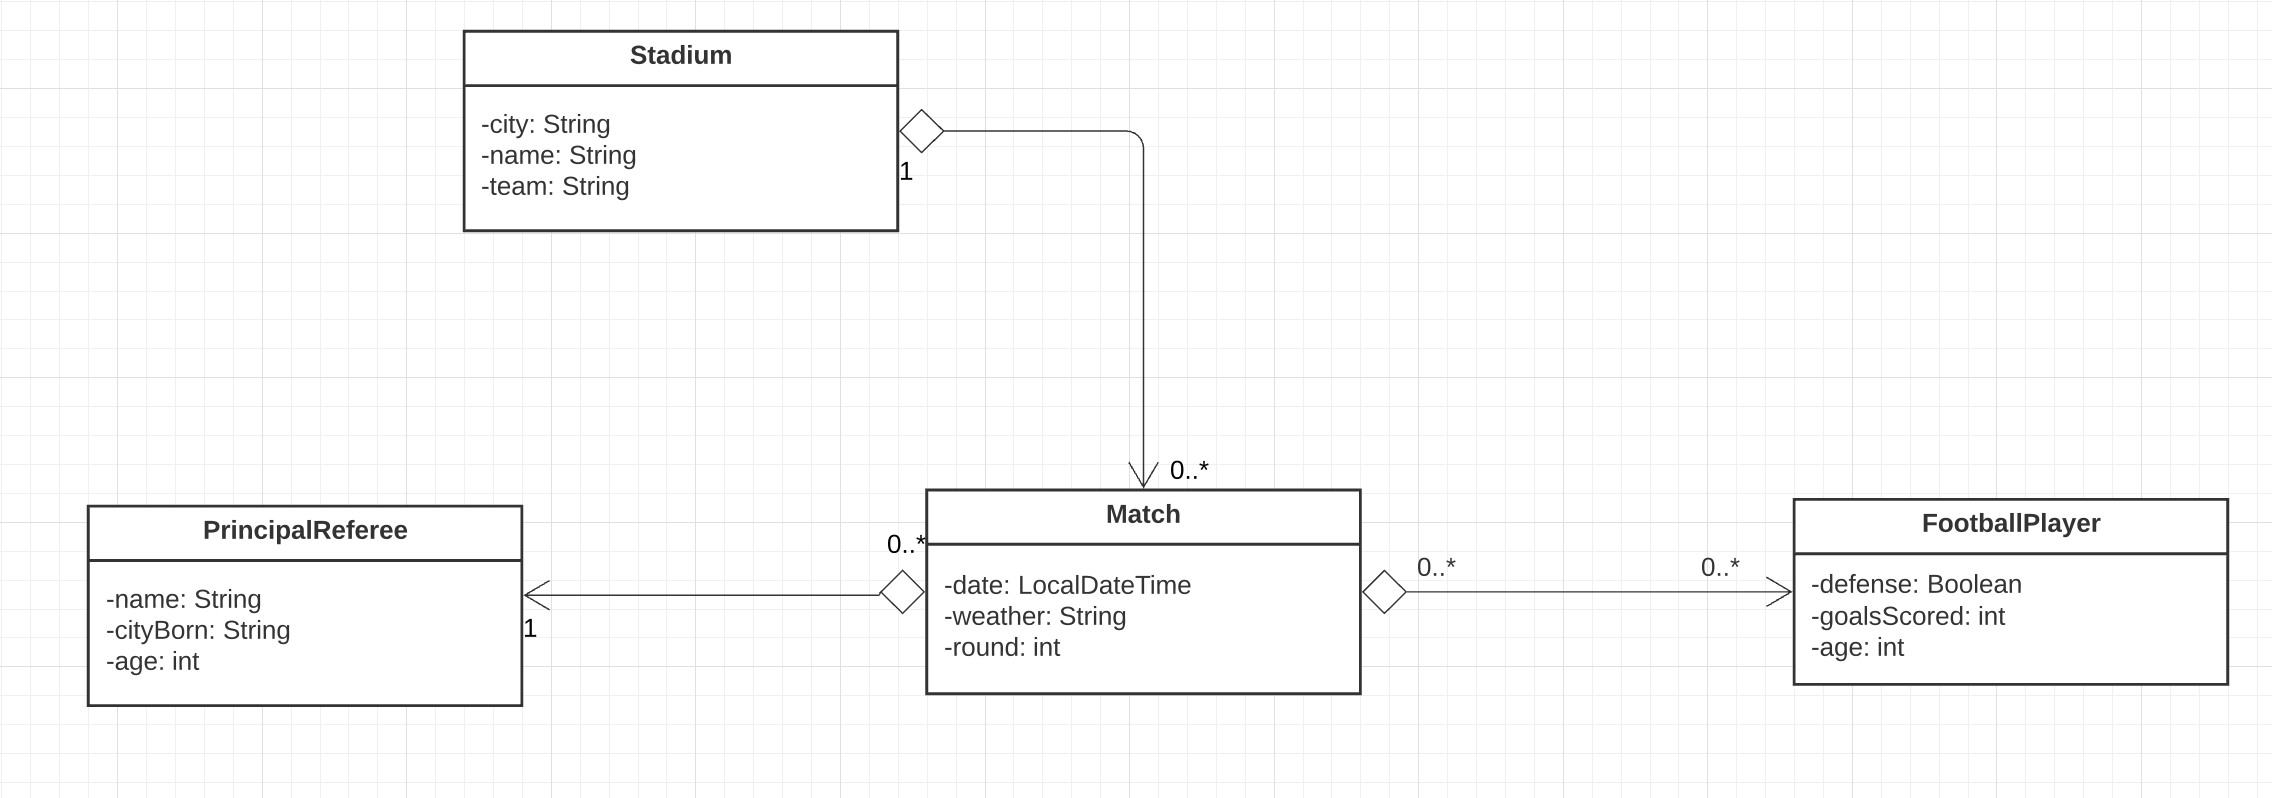
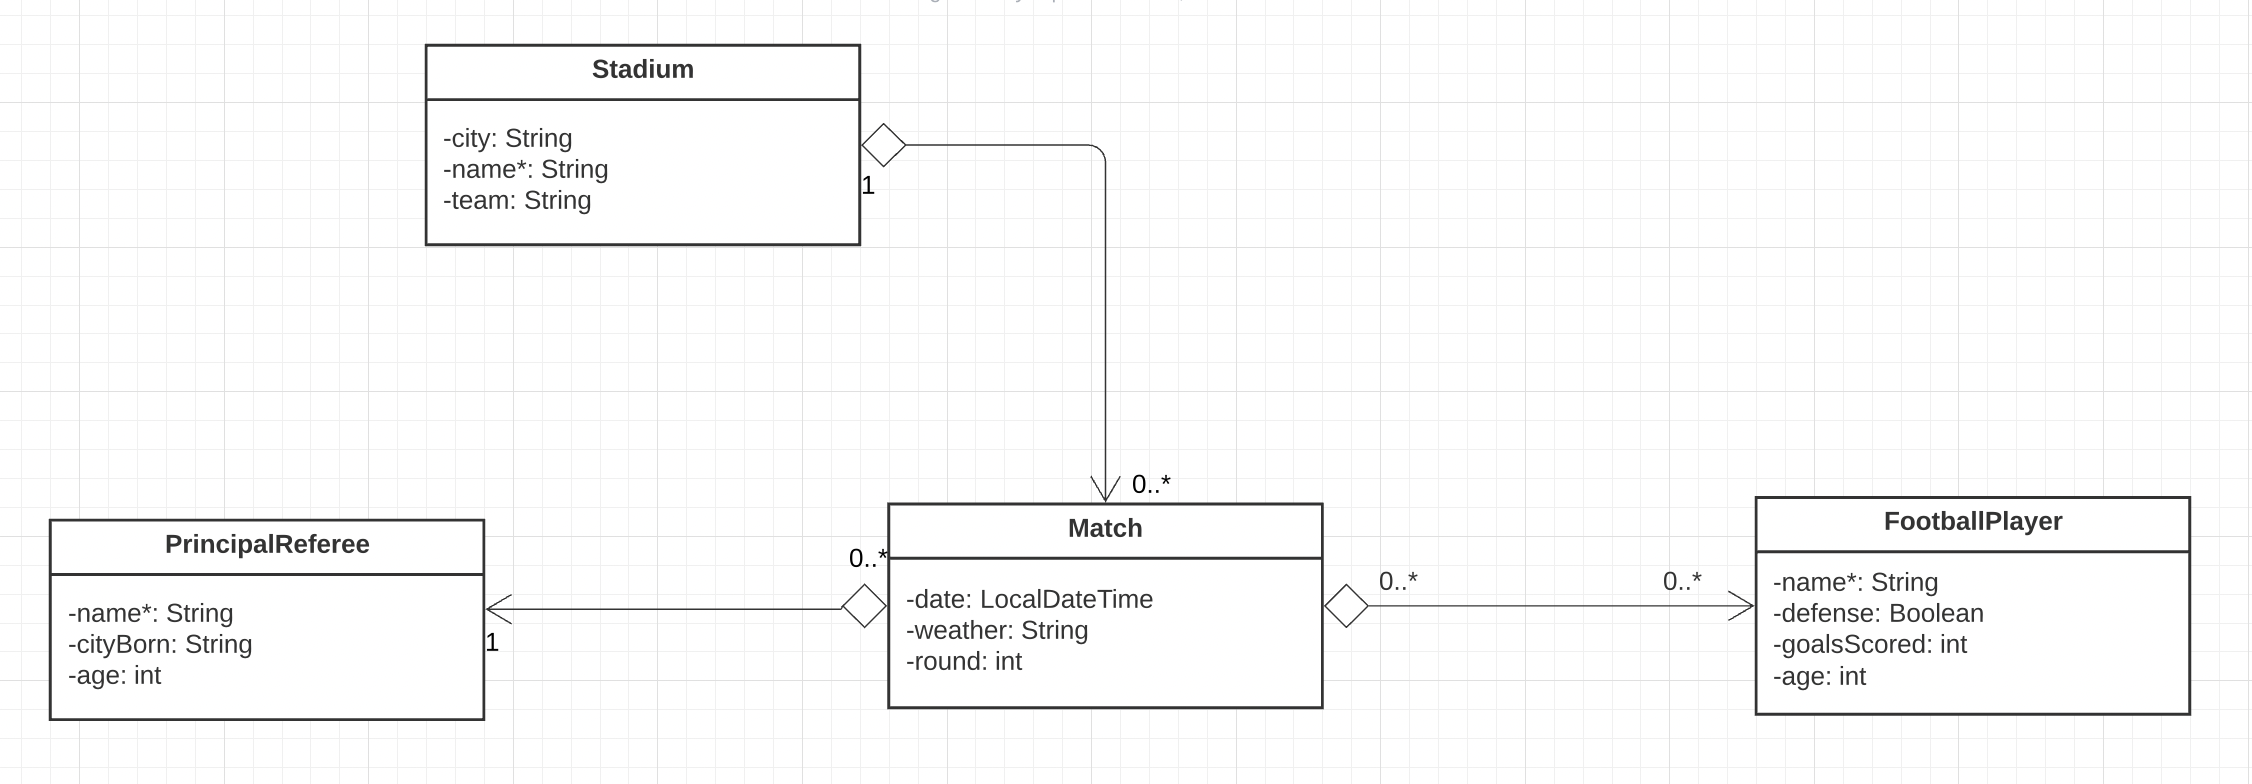
Fixed FootballPlayer adding name and added tests to search 1 #140

diff --git a/src/main/java/es/upm/miw/apaw_practice/domain/models/football/FootballPlayer.java b/src/main/java/es/upm/miw/apaw_practice/domain/models/football/FootballPlayer.java
@@ -1,18 +1,22 @@
 package es.upm.miw.apaw_practice.domain.models.football;
 
+import java.util.Objects;
+
 public class FootballPlayer {
     private Boolean defense;
     private Integer goalsScored;
     private Integer age;
+    private String name;
 
     public FootballPlayer() {
         //empty for framework
     }
 
-    public FootballPlayer(Boolean defense, Integer goalsScored, Integer age) {
+    public FootballPlayer(Boolean defense, Integer goalsScored, Integer age, String name) {
         this.defense = defense;
         this.goalsScored = goalsScored;
         this.age = age;
+        this.name = name;
     }
 
     public Boolean isDefense() {
@@ -39,12 +43,34 @@ public class FootballPlayer {
         this.age = age;
     }
 
+    public String getName() {
+        return name;
+    }
+
+    public void setName(String name) {
+        this.name = name;
+    }
+
+    @Override
+    public boolean equals(Object o) {
+        if (this == o) return true;
+        if (o == null || getClass() != o.getClass()) return false;
+        FootballPlayer that = (FootballPlayer) o;
+        return Objects.equals(name, that.name);
+    }
+
+    @Override
+    public int hashCode() {
+        return Objects.hash(name);
+    }
+
     @Override
     public String toString() {
         return "FootballPlayer{" +
                 "defense=" + defense +
                 ", goalsScored=" + goalsScored +
                 ", age=" + age +
+                ", name='" + name + '\'' +
                 '}';
     }
 }

diff --git a/src/main/java/es/upm/miw/apaw_practice/adapters/mongodb/football/entities/FootballPlayerEntity.java b/src/main/java/es/upm/miw/apaw_practice/adapters/mongodb/football/entities/FootballPlayerEntity.java
@@ -12,16 +12,18 @@ public class FootballPlayerEntity {
     private Boolean defense;
     private Integer goalsScored;
     private Integer age;
+    private String name;
 
     public FootballPlayerEntity() {
         //empty for framework
     }
 
-    public FootballPlayerEntity(Boolean defense, Integer goalsScored, Integer age) {
+    public FootballPlayerEntity(Boolean defense, Integer goalsScored, Integer age, String name) {
         this.id = UUID.randomUUID().toString();
         this.defense = defense;
         this.goalsScored = goalsScored;
         this.age = age;
+        this.name = name;
     }
 
     public Boolean isDefense() {
@@ -63,6 +65,14 @@ public class FootballPlayerEntity {
         return footballPlayer;
     }
 
+    public String getName() {
+        return name;
+    }
+
+    public void setName(String name) {
+        this.name = name;
+    }
+
     @Override
     public int hashCode() {
         return id.hashCode();
@@ -75,12 +85,12 @@ public class FootballPlayerEntity {
 
     @Override
     public String toString() {
-        return "FootballPlayer{" +
-                "defense=" + defense +
+        return "FootballPlayerEntity{" +
+                "id='" + id + '\'' +
+                ", defense=" + defense +
                 ", goalsScored=" + goalsScored +
                 ", age=" + age +
+                ", name='" + name + '\'' +
                 '}';
     }
-
-
 }

diff --git a/src/test/java/es/upm/miw/apaw_practice/adapters/rest/football/FootballPlayerResourceIT.java b/src/test/java/es/upm/miw/apaw_practice/adapters/rest/football/FootballPlayerResourceIT.java
@@ -28,4 +28,28 @@ class FootballPlayerResourceIT {
                 .value(players -> assertEquals(10, players.get(0).getGoalsScored()))
                 .value(players -> assertTrue(players.get(3).isDefense()));
     }
+
+    @Test
+    void testFindGoalsByStadiumName() {
+        WebTestClient.BodySpec<Integer, ?> goalsScored = this.webTestClient
+                .get()
+                .uri(uriBuilder ->
+                        uriBuilder.path(FootballPlayerResource.PLAYERS + FootballPlayerResource.SEARCH)
+                                .queryParam("q", "Bernabeu")
+                                .build())
+                .exchange()
+                .expectStatus().isOk()
+                .expectBody(Integer.class);
+
+        assertEquals(47, goalsScored.returnResult().getResponseBody());
+
+        this.webTestClient
+                .get()
+                .uri(uriBuilder ->
+                        uriBuilder.path(FootballPlayerResource.PLAYERS + FootballPlayerResource.SEARCH)
+                                .queryParam("q", "Reino de Leon")
+                                .build())
+                .exchange()
+                .expectStatus().isNotFound();
+    }
 }

diff --git a/src/test/java/es/upm/miw/apaw_practice/adapters/mongodb/football/FootballSeederService.java b/src/test/java/es/upm/miw/apaw_practice/adapters/mongodb/football/FootballSeederService.java
@@ -31,12 +31,12 @@ public class FootballSeederService {
     public void seedDatabase() {
         LogManager.getLogger(this.getClass()).warn("------- Football Initial Load -----------");
         FootballPlayerEntity[] players = {
-                new FootballPlayerEntity(Boolean.TRUE, 10, 24),
-                new FootballPlayerEntity(Boolean.FALSE, 20, 22),
-                new FootballPlayerEntity(Boolean.FALSE, 0, 19),
-                new FootballPlayerEntity(Boolean.TRUE, 2, 24),
-                new FootballPlayerEntity(Boolean.FALSE, 7, 35),
-                new FootballPlayerEntity(Boolean.FALSE, 8, 40)
+                new FootballPlayerEntity(Boolean.TRUE, 10, 24, "Cristiano"),
+                new FootballPlayerEntity(Boolean.FALSE, 20, 22, "Ramos"),
+                new FootballPlayerEntity(Boolean.FALSE, 0, 19, "Messi"),
+                new FootballPlayerEntity(Boolean.TRUE, 2, 24, "Yuri"),
+                new FootballPlayerEntity(Boolean.FALSE, 7, 35, "Courtois"),
+                new FootballPlayerEntity(Boolean.FALSE, 8, 40, "Benzema")
         };
         this.playerRepository.saveAll(Arrays.asList(players));
 

diff --git a/src/main/java/es/upm/miw/apaw_practice/domain/services/football/FootballPlayerService.java b/src/main/java/es/upm/miw/apaw_practice/domain/services/football/FootballPlayerService.java
@@ -23,11 +23,13 @@ public class FootballPlayerService {
         return this.footballPlayerPersistence.readAll();
     }
 
-    public Integer findGoalsByStadiumName(String stadiumName) {
-         return this.stadiumPersistence.readByName(stadiumName)
-                 .getMatches().stream()
-                 .flatMap(match -> match.getPlayers().stream().distinct())
-                 .map(FootballPlayer::getGoalsScored)
-                 .reduce(0, Integer::sum);
+    public Integer findGoalsByStadiumName(String q) {
+        return this.stadiumPersistence.readByName(q)
+                .getMatches().stream()
+                .flatMap(match -> match.getPlayers().stream())
+                .distinct()
+                .map(FootballPlayer::getGoalsScored)
+                .reduce(0, Integer::sum);
     }
+
 }

diff --git a/src/main/java/es/upm/miw/apaw_practice/adapters/rest/football/FootballPlayerResource.java b/src/main/java/es/upm/miw/apaw_practice/adapters/rest/football/FootballPlayerResource.java
@@ -30,7 +30,7 @@ public class FootballPlayerResource {
     }
 
     @GetMapping(SEARCH)
-    public Integer findGoalsByStadiumName(@RequestParam String stadiumName){
-        return this.footballPlayerService.findGoalsByStadiumName(stadiumName);
+    public Integer findGoalsByStadiumName(@RequestParam String q) {
+        return this.footballPlayerService.findGoalsByStadiumName(q);
     }
 }
